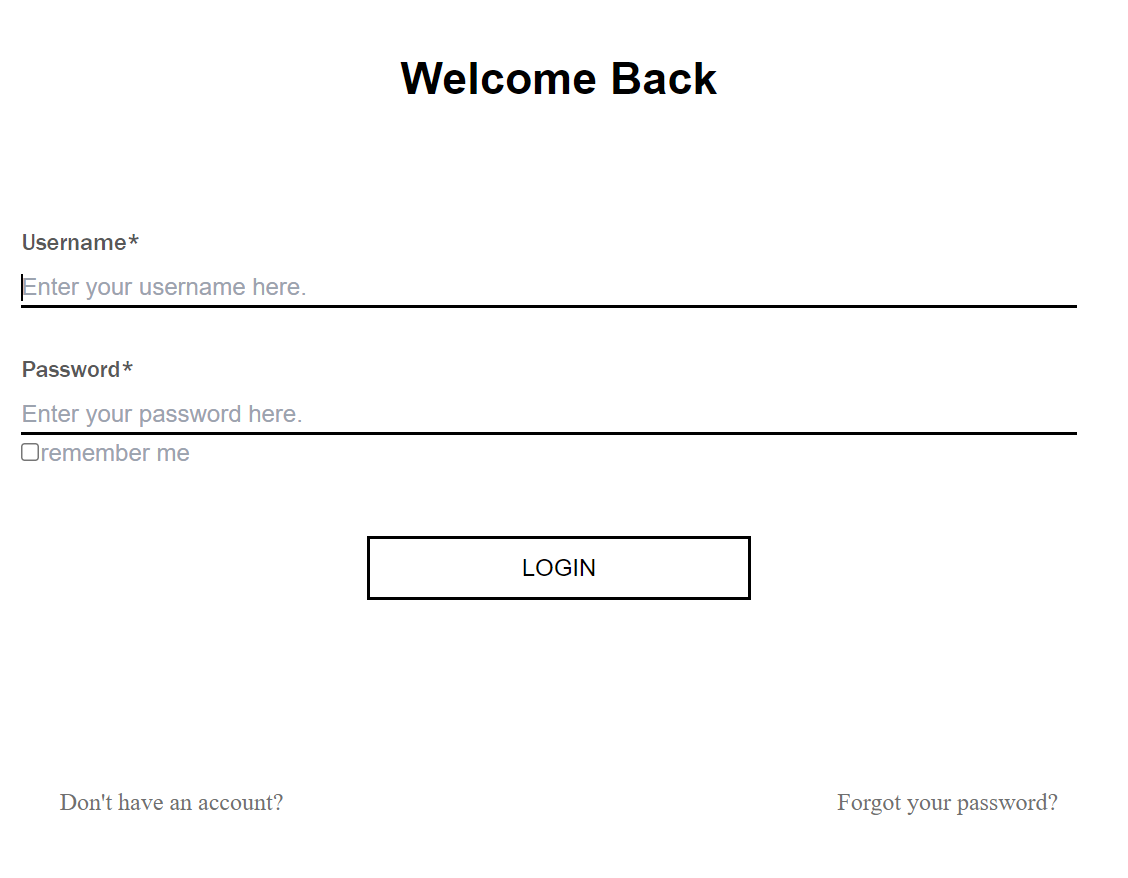
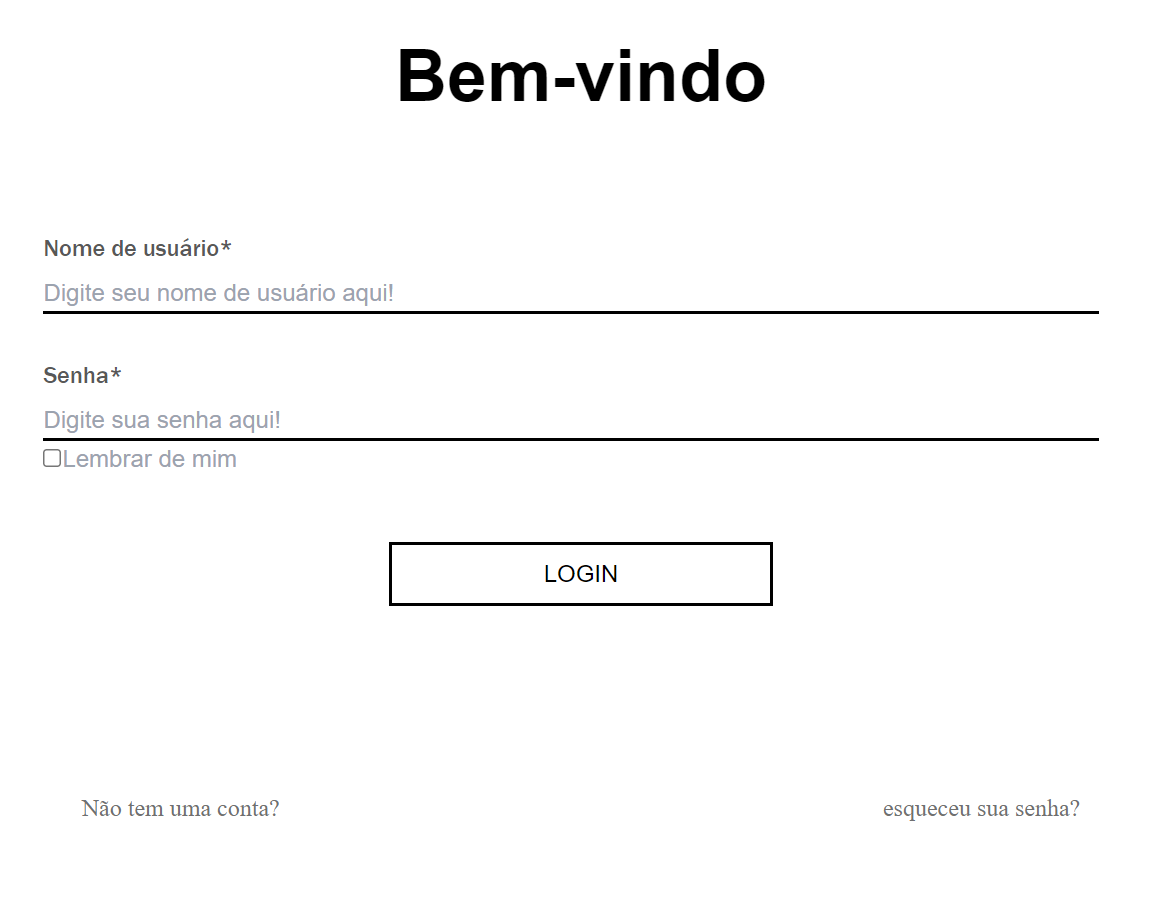
main

diff --git a/pages/login.js b/pages/login.js
@@ -4,22 +4,22 @@ function login() {
             <body class="lgnBody"> 
                 <main class="lgnMain">
                     <form action="" method="post">
-                            <h1 class="lgnH1 text-3xl font-bold mt-10">
-                                Bem Vindo
+                            <h1 class="lgnH1 text-5xl font-bold mt-10">
+                                Bem-vindo
                             </h1>
 
                             <section>
                                 <label for="name" class="lbl">
                                     Nome de usuário*
                                 </label>
-                                <input type="text" placeholder="Enter your username here." class="ipt"></input>
+                                <input type="text" placeholder="Digite seu nome de usuário aqui!" class="ipt"></input>
                             </section>
 
                             <section>
                                 <label for="psw" class="lbl">
                                     Senha*
                                 </label>
-                                <input type="text" placeholder="Enter your password here." class="ipt"></input>
+                                <input type="text" placeholder="Digite sua senha aqui!" class="ipt"></input>
                             </section>
                             <section class="flex items-center  mt-0">
                                 <input type="checkbox" class="">

diff --git a/pages/index.js b/pages/index.js
@@ -71,15 +71,15 @@ function home() {
           </div>
         </section>
       
-        <div class=" py-5 w-screen  bg-gray-200 flex flex-row border-4 border-black border-solid justify-center items-center">
+        <div class=" py-5 w-screen space-x-6 bg-gray-200 flex flex-row  justify-center items-center">
 
-            <a class="projectImg bg-cover h-48 w-64  border-2 border-black  border-solid rounded-lg">
+            <a class="projectImg bg-cover h-48 w-64  border-4 border-black  border-solid rounded-lg hover:brightness-50 hover:cursor-pointer" href="./login">
               
             </a>
-            <a class=" h-48 w-64  border-2 border-black  border-solid rounded-lg">
+            <a class=" bg-cover h-48 w-64  border-4 border-black  border-solid rounded-lg hover:brightness-50 hover:cursor-pointer">
               
             </a>
-            <a class=" h-48 w-64  border-2 border-black  border-solid rounded-lg">
+            <a class=" bg-cover h-48 w-64  border-4 border-black  border-solid rounded-lg hover:brightness-50 hover:cursor-pointer">
               
             </a>
 
